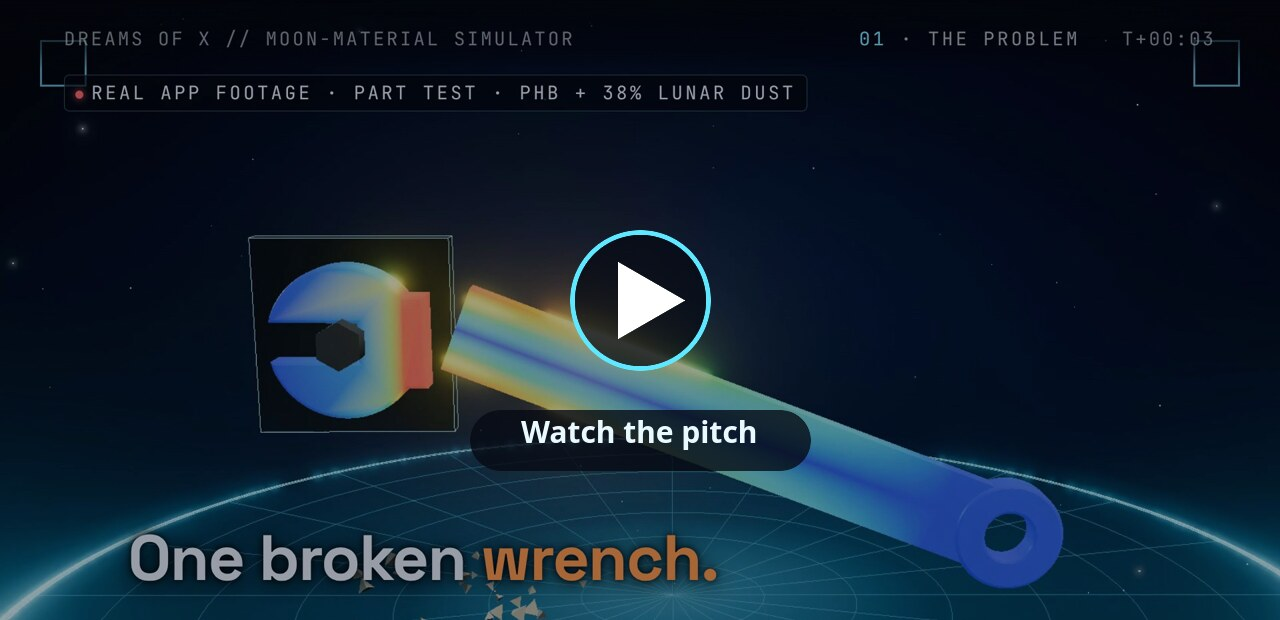
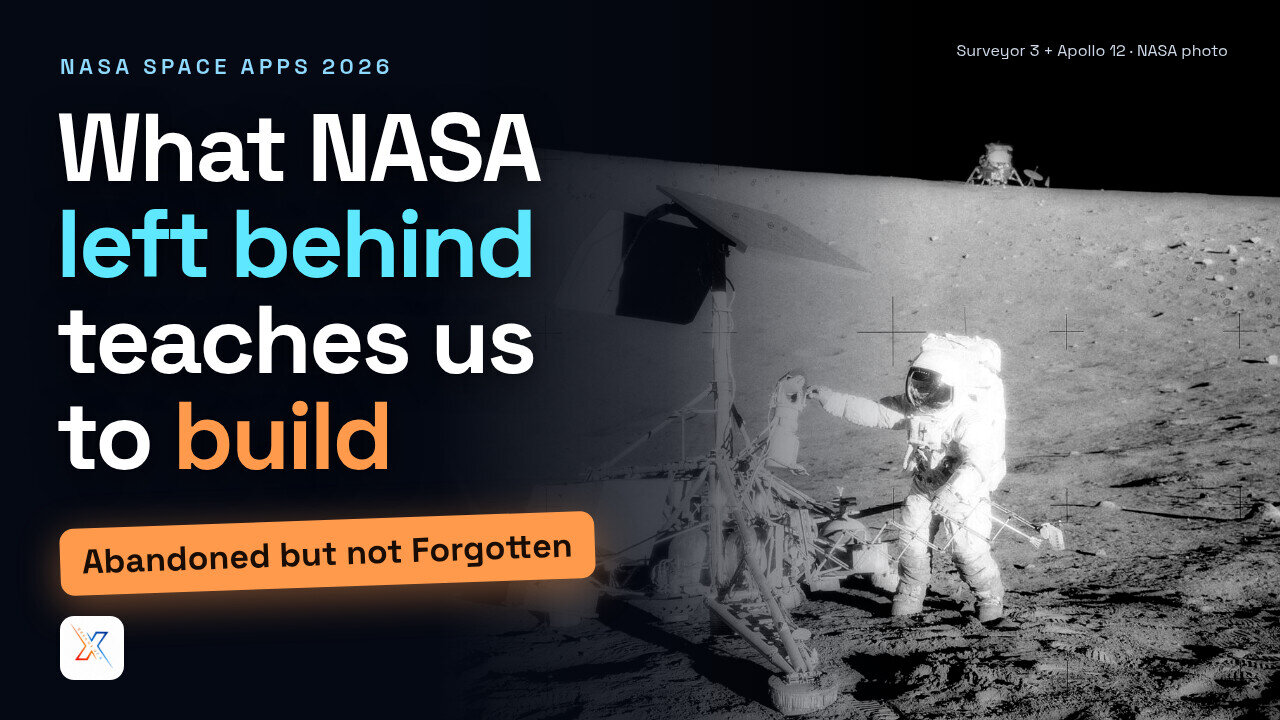
video based upgraded github also

diff --git a/frontend/src/lib/catalog.js b/frontend/src/lib/catalog.js
@@ -3,7 +3,7 @@ import catalog from '../generated/catalog.json';
 export default catalog;
 
 export const REPO_URL = 'https://github.com/md8-habibullah/moon-material-simulator';
-export const VIDEO_URL = 'https://youtu.be/1Gtmq5XUytc';
+export const VIDEO_URL = 'https://youtu.be/Bub3y_H-RUI';
 export const docUrl = (path) => `${REPO_URL}/blob/main/${path}`;
 
 export const DOCS = [

diff --git a/video/youtube/YOUTUBE.md b/video/youtube/YOUTUBE.md
@@ -132,15 +132,11 @@ NASA Space Apps, Space Apps 2026, Abandoned but not Forgotten, Moon-Material Sim
 
 ---
 
-## After uploading
+## Published
 
-Swap the old pitch link (`https://youtu.be/1Gtmq5XUytc`, the earlier October video) for the new one in these places:
-
-1. `README.md`, at the top (two links: the text link and the thumbnail)
-2. `docs/demo_script.md`, line 3
-3. `frontend/src/lib/catalog.js`, `VIDEO_URL` (this drives the "Watch the pitch" buttons in the app)
-
-Then put the same link in the Space Apps project page's video field.
+Uploaded 13 November 2026: **https://youtu.be/Bub3y_H-RUI**. The link is in `README.md` (text link and thumbnail),
+`docs/demo_script.md` and `frontend/src/lib/catalog.js` (`VIDEO_URL`, the app's "Watch the pitch" buttons). Put the
+same link in the Space Apps project page's video field.
 
 ## Before you publish, check
 

diff --git a/README.md b/README.md
@@ -11,7 +11,7 @@
 
 <p align="center">
   <a href="https://md8-habibullah.github.io/moon-material-simulator/"><strong>▶ Open the live simulator</strong></a> ·
-  <a href="https://youtu.be/1Gtmq5XUytc">Watch the 4-minute pitch</a> ·
+  <a href="https://youtu.be/Bub3y_H-RUI">Watch the 4-minute pitch</a> ·
   <a href="#documentation">Documentation</a>
 </p>
 
@@ -23,7 +23,7 @@
 </p>
 
 <p align="center">
-  <a href="https://youtu.be/1Gtmq5XUytc"><img src="docs/assets/readme/video-thumbnail.jpg" alt="Watch the pitch video: a wrench made of moon-dust plastic breaks under load" width="720" /></a>
+  <a href="https://youtu.be/Bub3y_H-RUI"><img src="docs/assets/readme/video-thumbnail.jpg" alt="Watch the pitch video: what NASA left behind teaches us to build from moon dust" width="720" /></a>
 </p>
 
 ---

diff --git a/docs/demo_script.md b/docs/demo_script.md
@@ -1,6 +1,6 @@
 # Demo script
 
-[← Back to README](../README.md) · Pitch video: <https://youtu.be/1Gtmq5XUytc> · Live app:
+[← Back to README](../README.md) · Pitch video: <https://youtu.be/Bub3y_H-RUI> · Live app:
 <https://md8-habibullah.github.io/moon-material-simulator/>
 
 A two-minute walkthrough for NASA Space Apps 2026, challenge **Abandoned but not Forgotten**. Every number below comes
